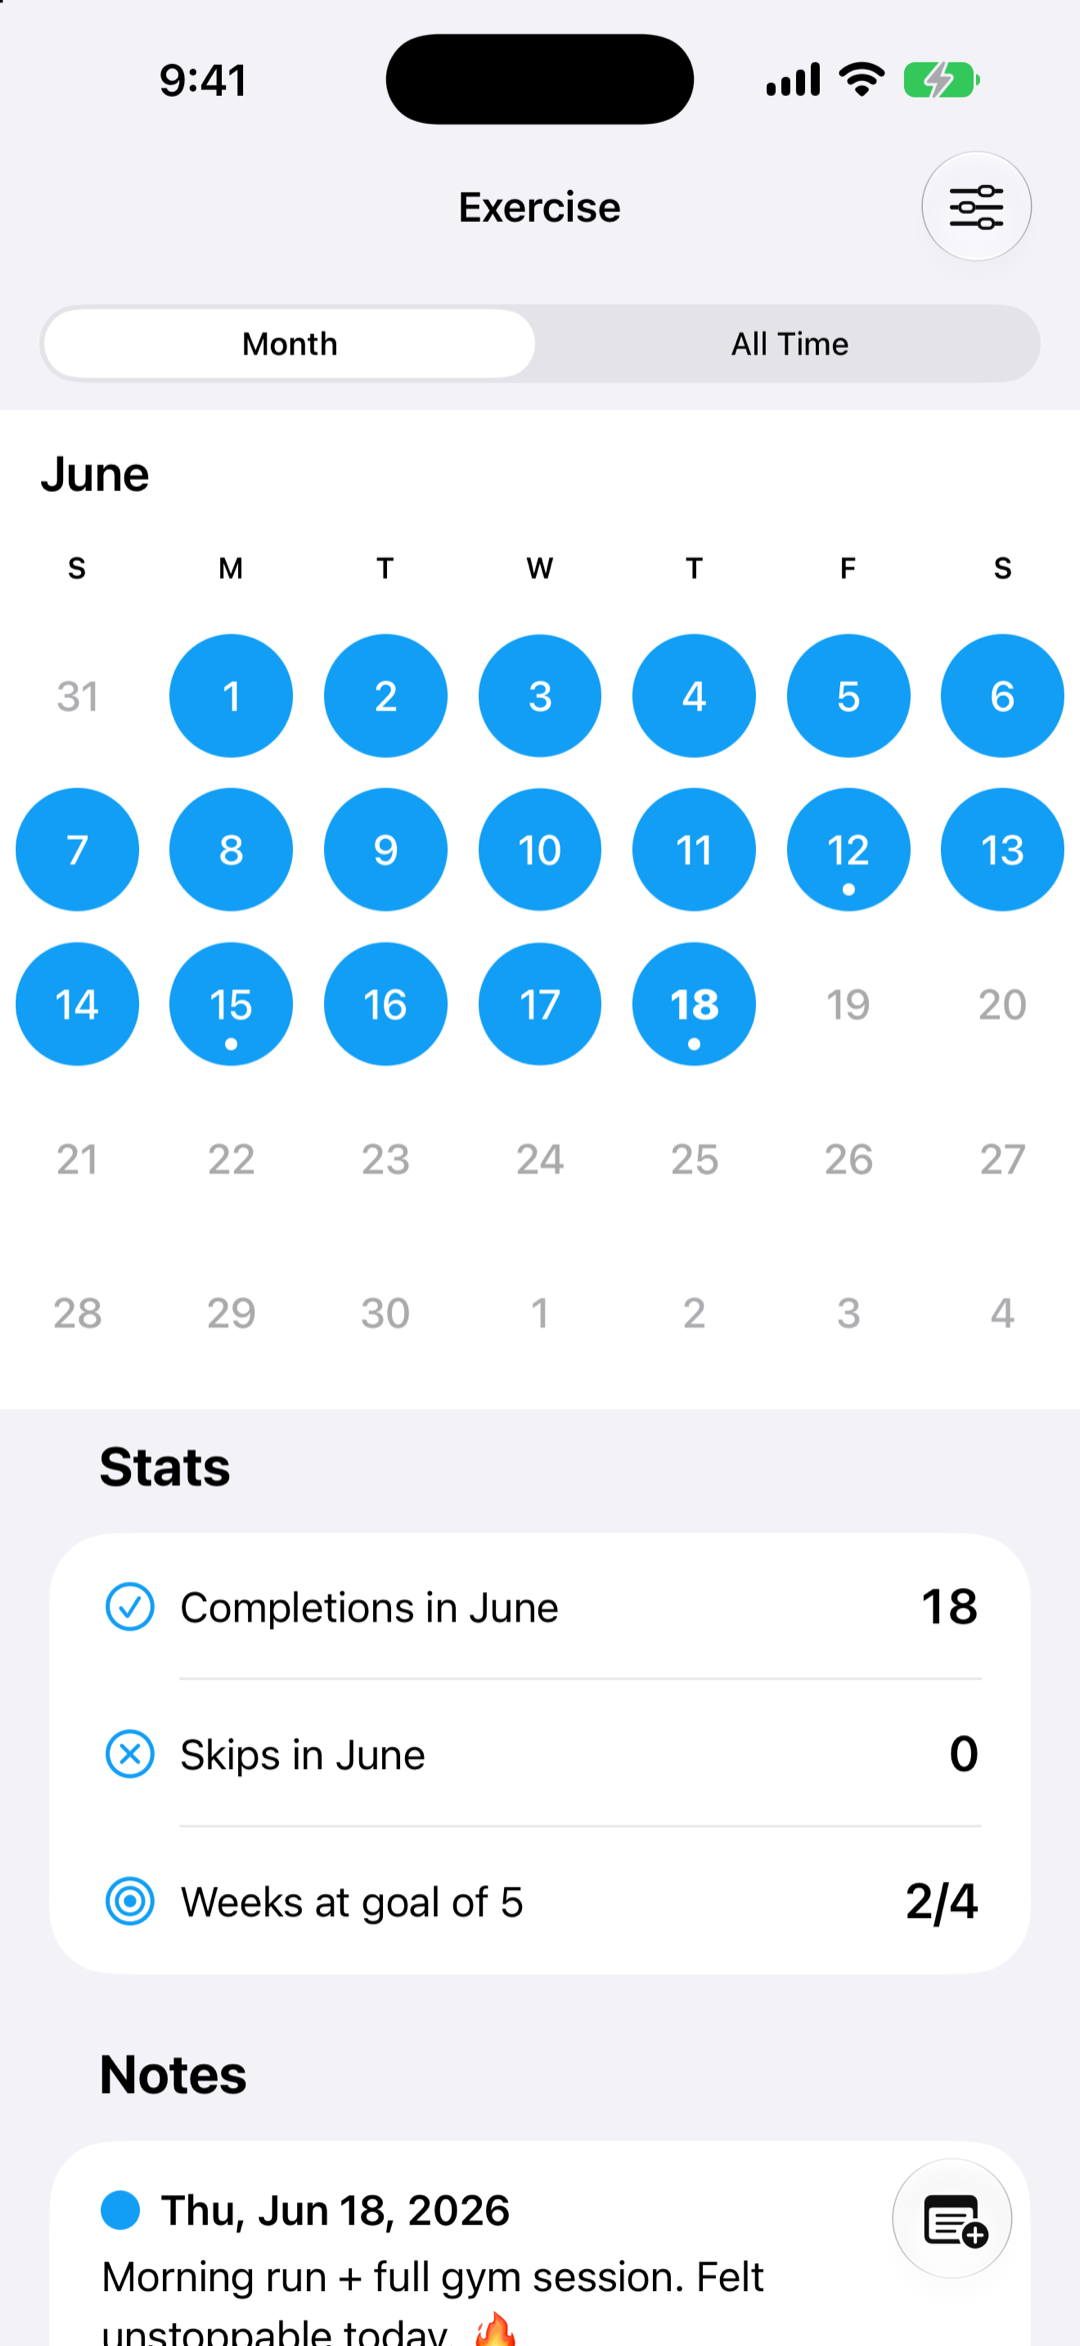
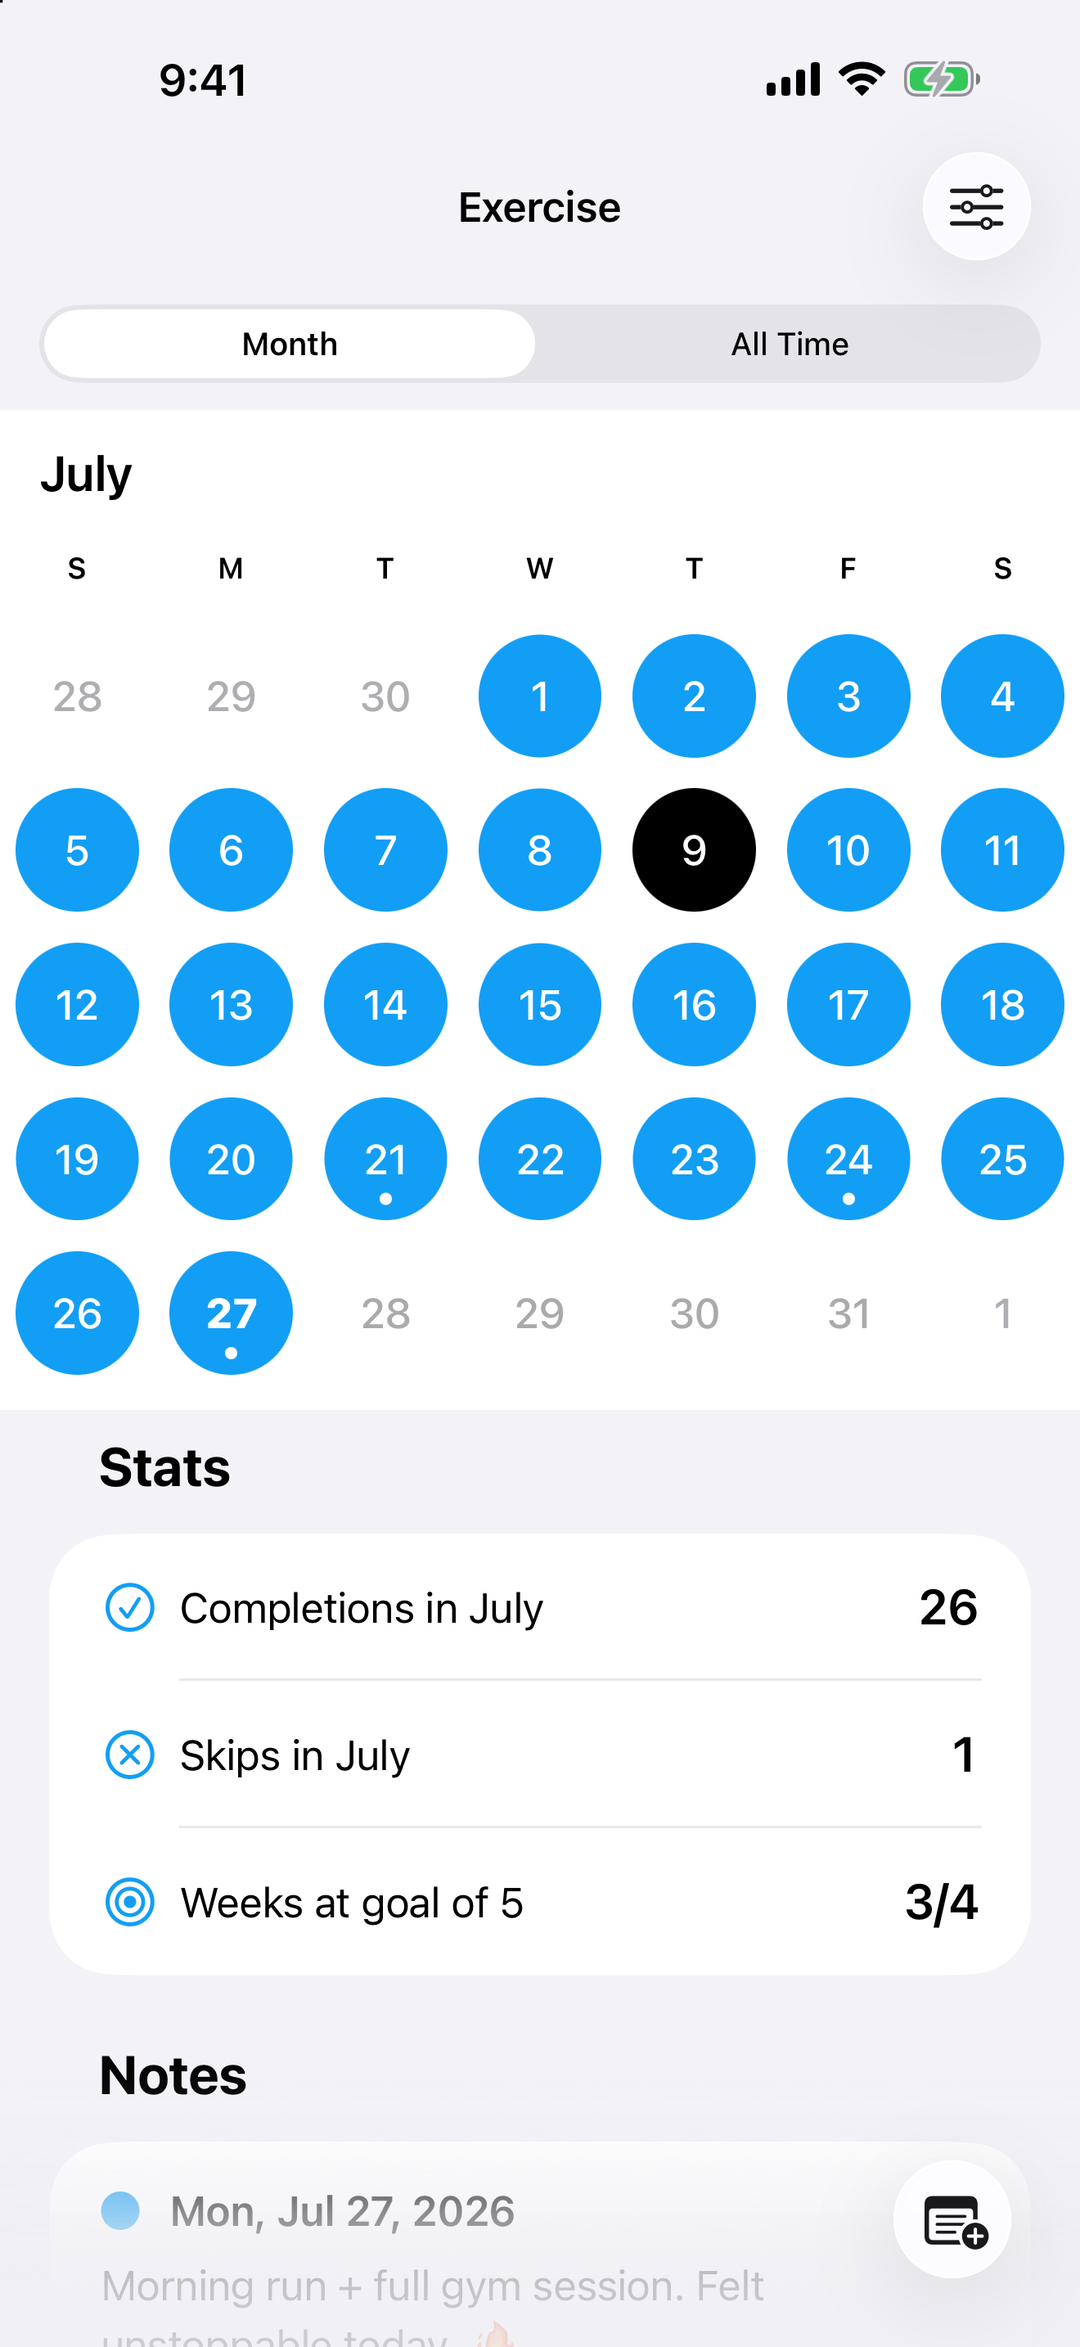
Make TracKit feature tiles full-screen overlays with iOS 26 screenshots
Show each screenshot full-bleed inside its bento tile with the kicker and
title over a thin bottom gradient, replacing the framed side-by-side/peeking
phones. The three phone tiles are equal portrait tiles matched to the
screenshot aspect ratio, so nothing crops on any edge.

Regenerate the hero and the three feature screenshots on the iOS 26
simulator via the app's capture pipeline: consistent clean status bar (no
Dynamic Island), settings button intact, and a full month of habit
completions. Drop the now-unused size-big/size-tall/peeking-phone CSS.

diff --git a/assets/apps/app.css b/assets/apps/app.css
@@ -129,14 +129,39 @@ img { max-width: 100%; }
 }
 .bento-item h3 { font-size: 1.32rem; letter-spacing: -.015em; line-height: 1.15; margin: 0 0 .4em; text-wrap: balance; }
 .bento-item .bento-text p { color: var(--text-soft); margin: 0; font-size: 1.02rem; }
-.bento-media { display: flex; justify-content: center; }
-.bento-media .phone { max-width: 200px; width: 100%; box-shadow: 0 18px 40px rgba(20,20,45,.26); }
 
 /* Accent tile: gradient pop, white text. */
 .tone-accent { background: linear-gradient(160deg, var(--accent), var(--accent-dark)); border-color: transparent; color: #fff; }
 .tone-accent .kicker { color: rgba(255,255,255,.85); }
 .tone-accent h3 { color: #fff; }
 .tone-accent .bento-text p { color: rgba(255,255,255,.92); }
+
+/* Phone tiles as immersive overlays: the screenshot fills the whole tile
+   (top-anchored, so the chart/calendar/streak stats stay visible) and the copy
+   sits over a dark gradient on the lower, less important part of the screen. */
+.bento-item.has-media {
+  padding: 0; flex-direction: column; justify-content: flex-end; color: #fff;
+  /* Match the screenshot's aspect ratio so it shows full-width and full-height
+     with no cropping; the tile's row sizes to this. */
+  aspect-ratio: 1080 / 2347;
+}
+.bento-item.has-media .bento-media { position: absolute; inset: 0; z-index: 0; display: block; }
+.bento-item.has-media .bento-media .phone {
+  width: 100%; height: 100%; max-width: none; border: 0; border-radius: 0; box-shadow: none; background: none;
+}
+.bento-item.has-media .bento-media .phone img {
+  width: 100%; height: 100%; object-fit: cover; object-position: top; border-radius: 0; margin: 0;
+}
+.bento-item.has-media::after {
+  content: ""; position: absolute; inset: 0; z-index: 1; pointer-events: none;
+  background: linear-gradient(to top,
+    rgba(8,8,12,.92) 0%, rgba(8,8,12,.7) 10%, rgba(8,8,12,0) 26%);
+}
+.bento-item.has-media .bento-text { position: relative; z-index: 2; flex: 0 0 auto; padding: 22px 22px; }
+.bento-item.has-media .kicker { color: rgba(255,255,255,.85); text-shadow: 0 1px 10px rgba(0,0,0,.55); }
+.bento-item.has-media h3 { color: #fff; margin: 0; text-shadow: 0 1px 12px rgba(0,0,0,.6); }
+/* Overlaid copy stays short (kicker + title) so it lives inside the gradient. */
+.bento-item.has-media .bento-text p:not(.kicker) { display: none; }
 
 /* ---------- Gallery ---------- */
 .gallery { max-width: var(--maxw); margin: clamp(64px, 10vw, 120px) auto; padding: 0 clamp(20px, 5vw, 40px); }
@@ -204,23 +229,9 @@ img { max-width: 100%; }
   .feature-row { grid-template-columns: 1fr 1fr; gap: clamp(40px, 6vw, 84px); }
   .feature-row:nth-child(even) .feature-media { order: 2; }
 
-  /* Bento spans */
+  /* Bento spans (phone + text tiles are 1x1; wide tiles span two columns). */
   .bento { grid-template-columns: repeat(4, 1fr); grid-auto-rows: minmax(215px, auto); }
-  .size-big { grid-column: span 2; grid-row: span 2; flex-direction: row; align-items: flex-start; gap: 24px; }
-  .size-tall { grid-row: span 2; }
   .size-wide { grid-column: span 2; }
-
-  /* Phone tiles: anchor the device to the tile's bottom edge so its top (status
-     bar, header, the chart/calendar) stays visible while the bottom bleeds off. */
-  .size-big .bento-text { flex: 1 1 45%; }
-  .size-big .bento-media { flex: 1 1 55%; align-self: stretch; align-items: flex-start; justify-content: flex-end; }
-  .size-tall { justify-content: flex-start; }
-  .size-tall .bento-media { margin-top: auto; }
-  .size-big .bento-media .phone, .size-tall .bento-media .phone {
-    border-bottom: none; border-bottom-left-radius: 0; border-bottom-right-radius: 0;
-  }
-  .size-big .bento-media .phone { max-width: 400px; }
-  .size-tall .bento-media .phone { max-width: 228px; margin-bottom: -26%; }
 }
 
 /* ---------- Apps index (personal) ---------- */

diff --git a/apps/trackit.html b/apps/trackit.html
@@ -19,26 +19,25 @@ social_proof: "Designed and built by an independent developer."
 bento_title: "Everything you need to track"
 bento_sub: "One app for the numbers, habits, and routines that matter to you."
 bento:
+  # Top band: three equal portrait screenshot tiles + a Goals accent block.
   - img: /assets/apps/trackit/screens/charts.png
     kicker: "Trends"
     title: "See your progress over time"
-    body: "Each number you log builds up a chart, so trends in your weight, workouts, spending, or anything else are easy to spot."
-    size: big
+    size: small
   - img: /assets/apps/trackit/screens/habits.png
     kicker: "Habits"
     title: "Build habits that stick"
-    body: "A calendar view keeps your routines visible, and works for tracking medications too."
-    size: tall
+    size: small
   - img: /assets/apps/trackit/screens/streaks.png
     kicker: "Streaks"
     title: "Stay motivated with streaks"
-    body: "Current streak, longest streak, and total completions, all at a glance."
-    size: tall
+    size: small
   - kicker: "Goals"
     title: "Set goals and reach them"
     body: "Set a target for anything you track and watch yourself progress toward it."
-    size: wide
+    size: small
     tone: accent
+  # Value props.
   - kicker: "Reminders"
     title: "Never forget to log"
     body: "You pick the schedule, TracKit handles the reminding, so logging becomes second nature."
@@ -53,13 +52,13 @@ bento:
   - title: "Widgets at a glance"
     body: "Your numbers, streaks, and charts on your home and lock screen."
     size: small
-  - title: "Backed up and in sync"
-    body: "Backed up to the cloud and synced across your devices."
-    size: small
   - title: "Hands‑free with Siri"
-    body: "Log just by asking Siri, or run it with Shortcuts."
-    size: small
+    body: "Log a number, time, or completion just by asking Siri, or run it automatically with Shortcuts."
+    size: wide
     tone: accent
+  - title: "Backed up and in sync"
+    body: "Your entries are backed up to the cloud and synced across all your devices, so they are always with you."
+    size: wide
 
 reviews_title: "What people are saying"
 reviews_sub: "Used daily and loved by thousands of users since 2013"
